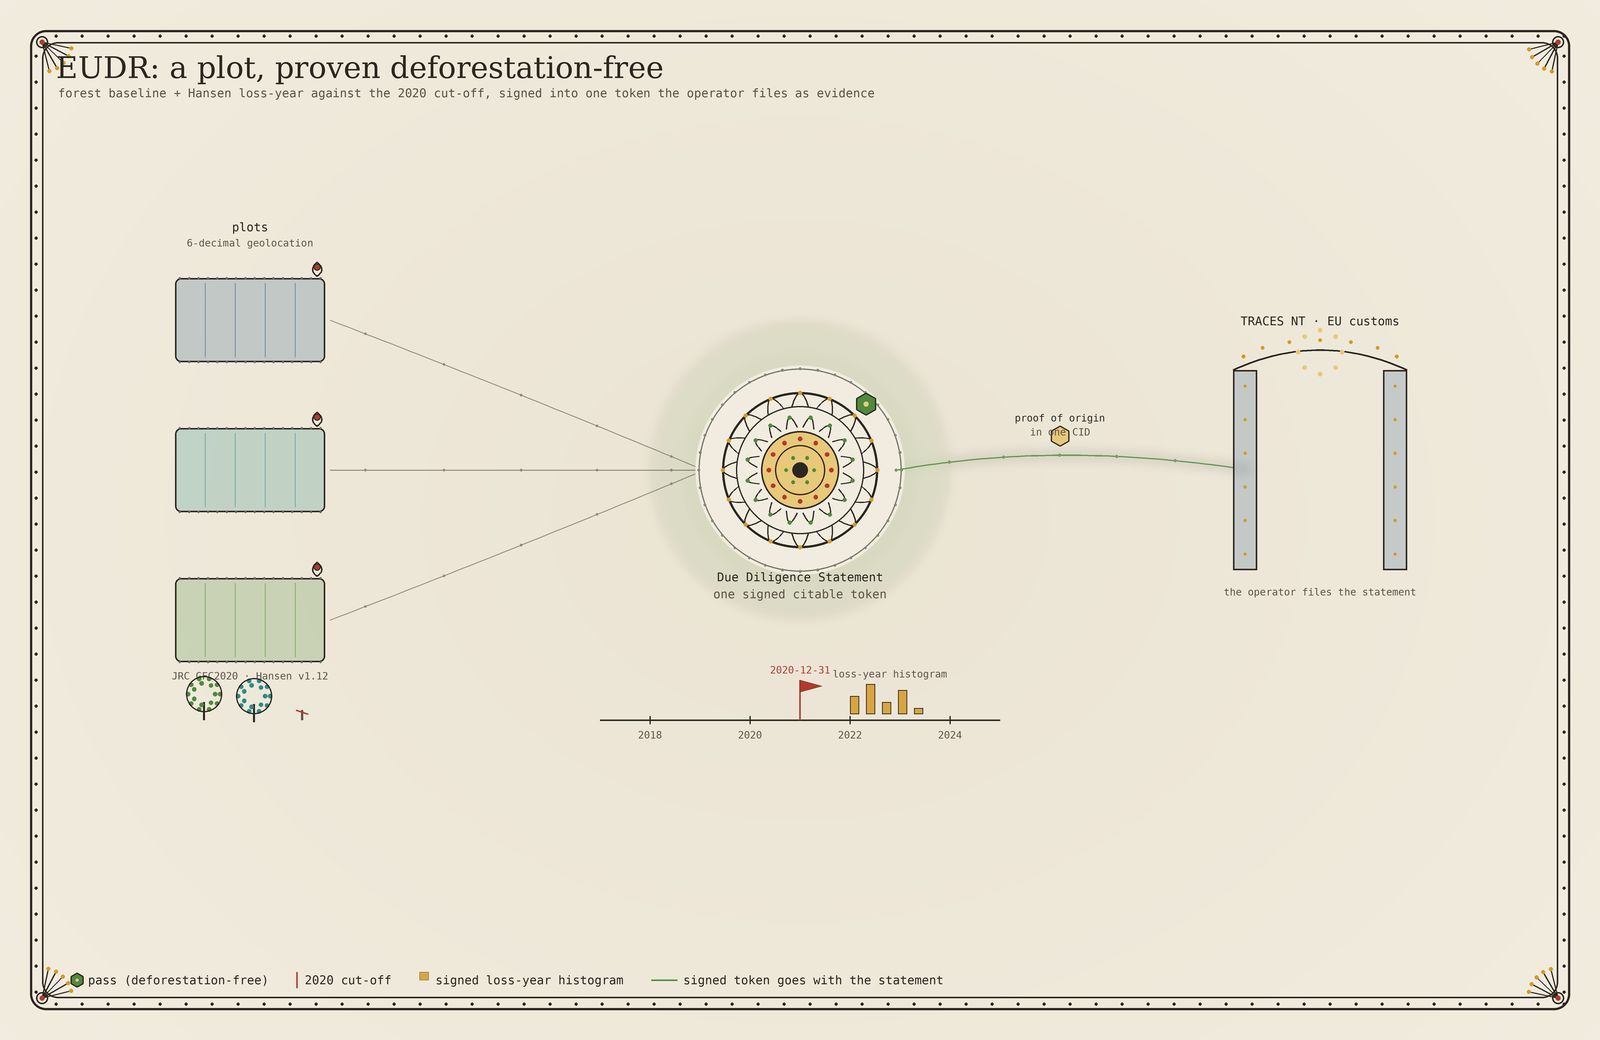
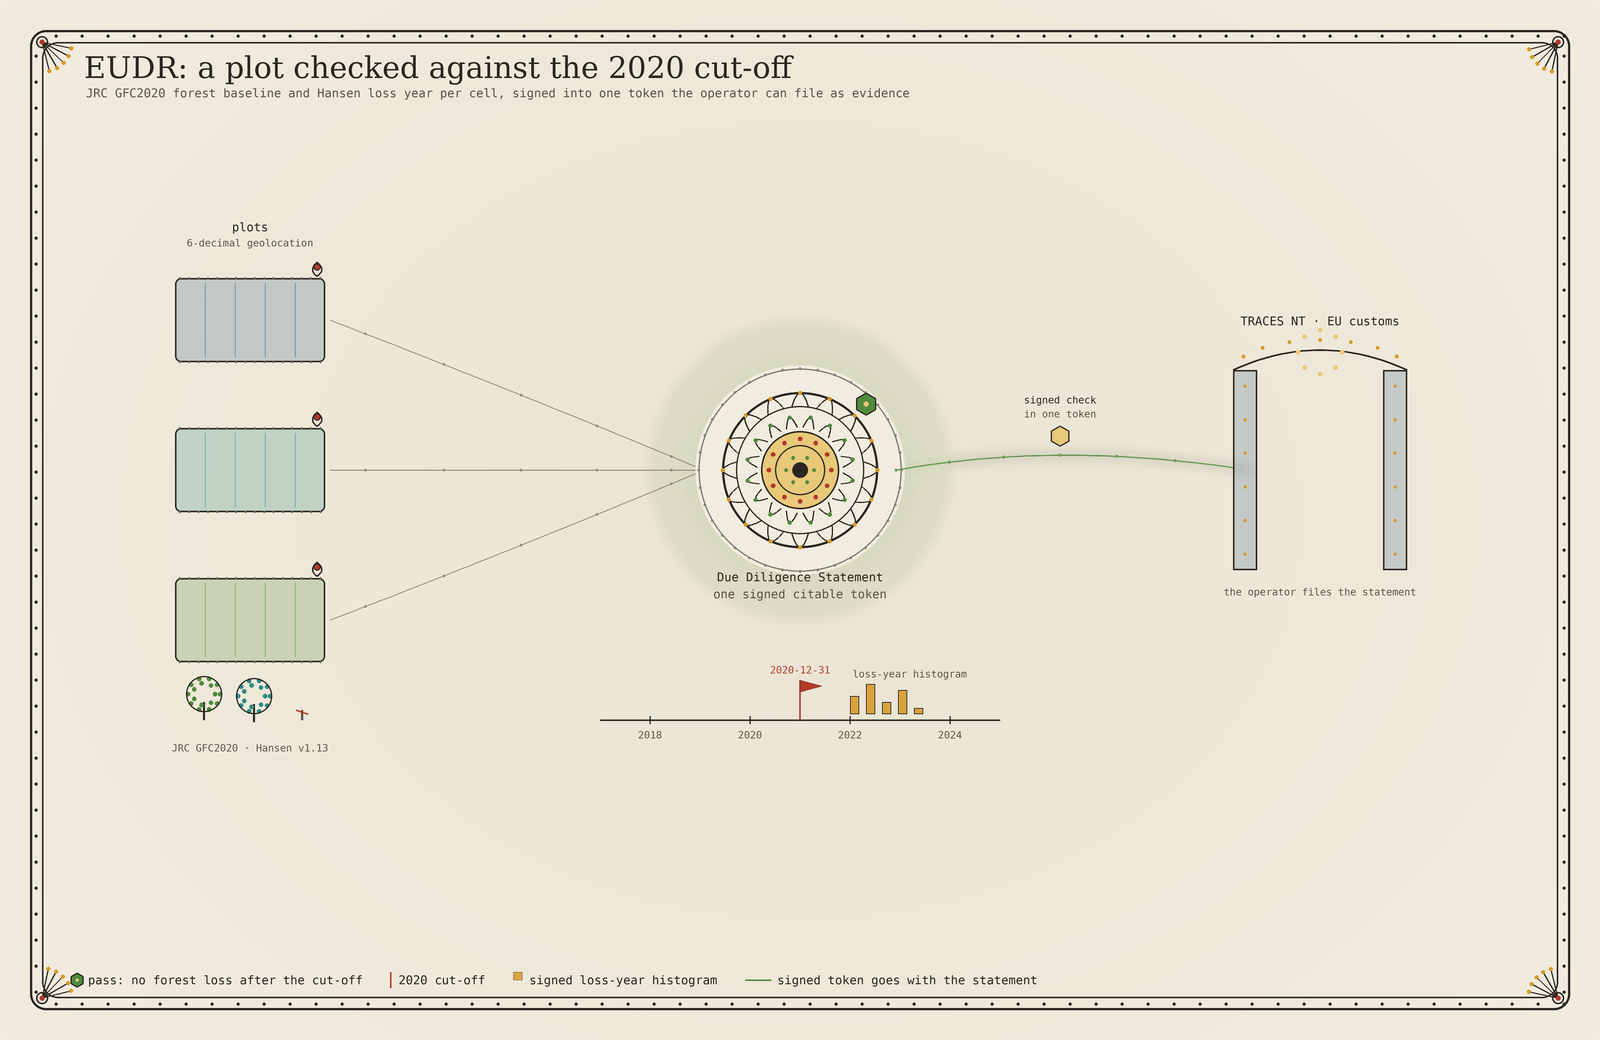
EUDR diagram: Hansen v1.13, no "proven" claim, clear labels
The connector reads Hansen GFC-2025-v1.13 (emem-fetch hansen_gfc.rs:53,
docs/eudr.md), but the image said v1.12. The title said "proven
deforestation-free"; the verdict checks forest loss after the cut-off
and carries a degradation disclaimer, so the title and legend now say
what is checked. "Proof of origin in one CID" becomes "signed check in
one token". The baseline label no longer sits on the tree icons, the
seal no longer covers its caption, and the title clears the corner.
The generator rebuilt the old PNG byte-identical before the change.

diff --git a/scripts/gen_eudr.py b/scripts/gen_eudr.py
@@ -2,7 +2,7 @@
 """EUDR supply-chain diagram in the engram's ink-on-paper Mithila hand.
 
 A geolocated plot is checked against the forest baseline and the Hansen
-loss-year, signed into one Due Diligence Statement, and the operator files
+loss-year, signed into one Due Diligence Statement, and the operator can file
 that statement in TRACES NT with the signed token as its evidence. Same kit as the engram, architecture, and federation.
 
 Output: docs/diagrams/eudr.png
@@ -21,8 +21,8 @@ f_sub = c.font(FONT_MONO, 12)
 f_lab = c.font(FONT_MONO, 12)
 f_tiny = c.font(FONT_MONO, 10)
 
-c.text(56, 50, "EUDR: a plot, proven deforestation-free", f_title, INK)
-c.text(58, 86, "forest baseline + Hansen loss-year against the 2020 cut-off, signed into one token the operator files as evidence",
+c.text(84, 50, "EUDR: a plot checked against the 2020 cut-off", f_title, INK)
+c.text(86, 86, "JRC GFC2020 forest baseline and Hansen loss year per cell, signed into one token the operator can file as evidence",
        f_sub, INK_SOFT)
 
 MID = 470  # vertical centre of the narrative band
@@ -66,7 +66,7 @@ c.text(PX, MID - 233, "6-decimal geolocation", f_tiny, INK_SOFT, center=True)
 for (py, col, cleared) in plots:
     field(PX, py, 150, 84, col, cleared)
 # two baselines feeding the check
-c.text(PX, MID + 200, "JRC GFC2020 · Hansen v1.12", f_tiny, INK_SOFT, center=True)
+c.text(PX, MID + 272, "JRC GFC2020 · Hansen v1.13", f_tiny, INK_SOFT, center=True)
 tree(PX - 46, MID + 250); tree(PX + 4, MID + 252, col=TEAL); tree(PX + 52, MID + 250, cleared=True)
 
 # ----------------------------------------------------------------- centre: the verdict (signed DDS)
@@ -103,7 +103,7 @@ for i, v in enumerate(hb):
     x = cx_cut + 50 + i * 16
     c.di.rectangle([c.S(x), c.S(TY - 6 - v * 6), c.S(x + 9), c.S(TY - 6)],
                    fill=c.rgba(TURMERIC, 220), outline=c.rgba(INK, 255), width=max(1, c.S(0.8)))
-c.text(cx_cut + 90, TY - 52, "loss-year histogram", f_tiny, INK_SOFT, center=True)
+c.text(cx_cut + 110, TY - 52, "loss-year histogram", f_tiny, INK_SOFT, center=True)
 
 # ----------------------------------------------------------------- right: customs gate (TRACES NT)
 GX, GY = 1320, MID
@@ -114,8 +114,8 @@ c.polyline(pts, LEAF, 1.6, a=210)
 for k in range(0, len(pts), 8):
     c.dot(pts[k][0], pts[k][1], 1.5, LEAF, a=190)
 c.seal((VX + GX) / 2, VY - 34, 10, fill=GOLD_PALE)
-c.text((VX + GX) / 2, VY - 58, "proof of origin", f_tiny, INK, center=True)
-c.text((VX + GX) / 2, VY - 44, "in one CID", f_tiny, INK_SOFT, center=True)
+c.text((VX + GX) / 2, VY - 76, "signed check", f_tiny, INK, center=True)
+c.text((VX + GX) / 2, VY - 62, "in one token", f_tiny, INK_SOFT, center=True)
 
 # torana gate
 gw, gh = 150, 200
@@ -140,7 +140,7 @@ c.text(GX, GY + gh / 2 + 16, "the operator files the statement", f_tiny, INK_SOF
 # ----------------------------------------------------------------- legend
 ly = H - 60
 lx = 70
-c.seal(lx + 7, ly, 7, fill=LEAF); c.text(lx + 18, ly - 7, "pass (deforestation-free)", f_lab, INK); lx += 18 + c.textw("pass (deforestation-free)", f_lab) + 28
+c.seal(lx + 7, ly, 7, fill=LEAF); c.text(lx + 18, ly - 7, "pass: no forest loss after the cut-off", f_lab, INK); lx += 18 + c.textw("pass: no forest loss after the cut-off", f_lab) + 28
 c.line((lx, ly - 8), (lx, ly + 8), VERMIL, 1.6); c.text(lx + 8, ly - 7, "2020 cut-off", f_lab, INK); lx += 8 + c.textw("2020 cut-off", f_lab) + 28
 c.di.rectangle([c.S(lx), c.S(ly - 8), c.S(lx + 9), c.S(ly)], fill=c.rgba(TURMERIC, 220), outline=c.rgba(INK, 255)); c.text(lx + 16, ly - 7, "signed loss-year histogram", f_lab, INK); lx += 16 + c.textw("signed loss-year histogram", f_lab) + 28
 c.line((lx, ly), (lx + 26, ly), LEAF, 1.6); c.text(lx + 32, ly - 7, "signed token goes with the statement", f_lab, INK)
